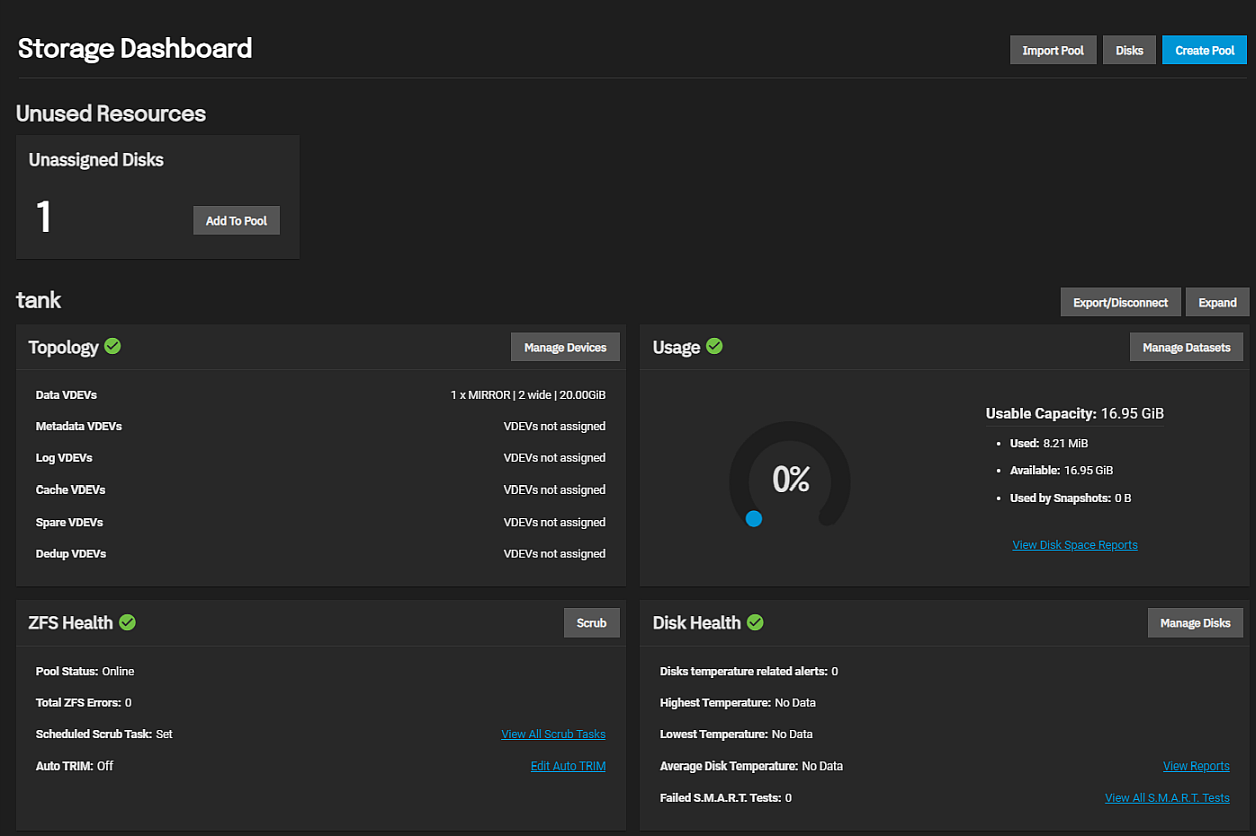
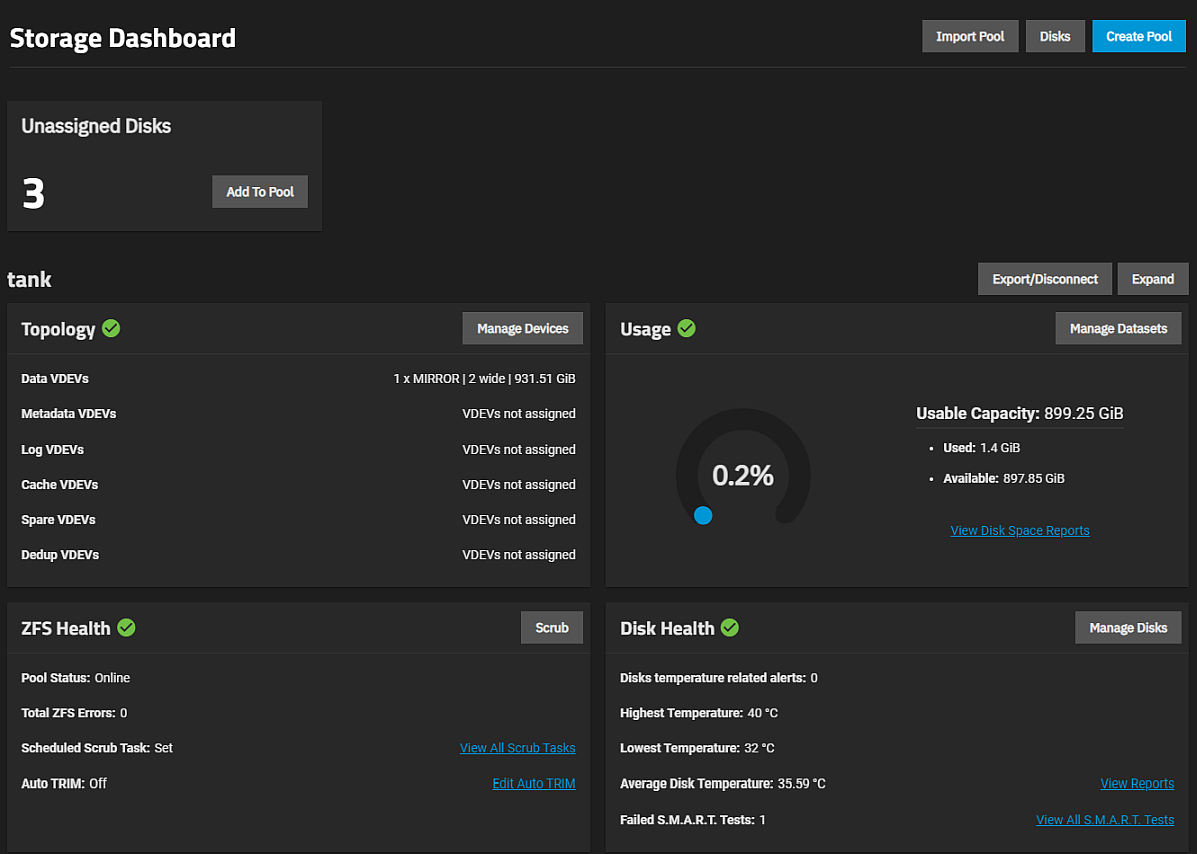
Docs-3404 Update Storage Dashboard Screen Article
Update the StorageDashboardScreen.md article  with updated screenshots and change references to Unused Resources to just Unassigned Disks.

diff --git a/content/SCALE/SCALEUIReference/Storage/StorageDashboardScreen.md b/content/SCALE/SCALEUIReference/Storage/StorageDashboardScreen.md
@@ -21,7 +21,7 @@ The **Storage Dashboard** displays the **No Pools** screen with a **Create Pool*
 
 Both the **Create Pool** button on the top right and at the center of the screen open the **Create Pool > [Pool Manager]({{< relref "PoolManagerScreens.md" >}})** configuration screen. 
 
-After adding a pool, the screen displays five widgets. The **[Unused Resources](#unused-resources)** widget remains at the top of the dashboard and the other four are a set that displays for each pool created on the system. 
+After adding a pool, the screen displays five widgets. The **[Unassigned Disks](#unassigned-disks-widget)** widget remains at the top of the dashboard and the other four are a set that displays for each pool created on the system. 
 
 ![StorageDashboardWithPool](/images/SCALE/22.12/StorageDashboardWithPool.png "SCALE Storage Dashboard with Pool") 
 
@@ -43,22 +43,19 @@ This same information displays on both the **Storage** widget and a pool widget 
 ## Storage Dashboard Widgets
 The **Storage Dashboard** widgets organize storage and related functions for each pool. 
 
-The **Unassigned Resources** widget remains at the top of the dashboard and provides the number of available disks on the system to use in pools. 
+The **Unassigned Diks** widget remains at the top of the dashboard and provides the number of available disks on the system to use in pools. 
 Each pool has a set of four widgets: **[Topology](#topology-widget)** for managing pool virtual devices or VDEVs, **[Usage](#usage-widget)** for managing datasets and zvols, **[ZFS Health](#zfs-health-widget)** for managing pool health and pool functions like scrub and auto TRIM, and **[Disk Health](#disk-health-widget)** for managing disks and disk health. 
-Each set of pool widgets provides access to screens for each storage type with the information for the pool pre-selected. For example, **Manage Devices** on the **[Topology](#topology-widget)** widget opens the **Devices** screen with the VDEVs configured for that pool and not all pools on the system.
+Each set of pool widgets provide access to screens for each storage type with the information for the pool pre-selected. For example, **Manage Devices** on the **[Topology](#topology-widget)** widget opens the **Devices** screen with the VDEVs configured for that pool and not all pools on the system.
 
-### Unused Resources Widget
-The **Unused Resources Unassigned Disks** widget displays the number of disks available on your system to use in pools. The disk count includes disks assigned in exported pools. If you attempt to use a disk assigned in an exported pool, a warning message displays that prompts you to select a different disk.
+### Unassigned Disks Widget
+The **Unassigned Disks** widget displays the number of disks available on your system to use in pools. The disk count includes disks assigned in exported pool. If you attempt to use a disk assigned in an exported pool a warning message displays that prompts you to select a different disk.
 
 {{< expand "Click Here for More Information" "v" >}}
 To see information on each disk on the system, click **Manage Disks** on the **[Disk health](#disk-health-widget)** widget.
 
-![StorageDashboardUnusedResourcesWidget](/images/SCALE/22.12/StorageDashboardUnusedResourcesWidget.png "Storage Dashboard Unused Resources Widget") 
+![StorageDashboardUnassignedDisksWidget](/images/SCALE/22.12/StorageDashboardUnassignedDisksWidget.png "Storage Dashboard Unassigned Disks Widget") 
 
 **Add To Pool** opens the **[Add to Pool](#add-to-pool-window)** window. 
-
-**New Pool** opens the **Create Pool > [Pool Manager]({{< relref "PoolManagerScreens.md" >}})** screen. 
-**Existing Pool** opens the **Add VDevs to Pool > [Pool Manager]({{< relref "PoolManagerScreens.md" >}})** screen.
 {{< /expand >}}
 
 #### Add To Pool Window
@@ -70,8 +67,9 @@ The **Add to Pool** window allows you to select a disk or disks to add to either
 The **Unassigned Disks** area displays the amount of storage and number of disks that provides that storage.
 
 The **Add Disks To** area includes two radio buttons:
-* **New Pool** adds a new pool.
-* **Existing Pool** adds the **Existing Pool** field where you select the existing pool from the dropdown list.
+
+**New Pool** opens the **Create Pool > [Pool Manager]({{< relref "PoolManagerScreens.md" >}})** screen. 
+**Existing Pool** opens the **Add VDevs to Pool > [Pool Manager]({{< relref "PoolManagerScreens.md" >}})** screen.
    
    ![AddToPool-ExistingWindow](/images/SCALE/22.12/AddToPool-ExistingWindow.png "Add To Existing Pool") 
 
@@ -82,7 +80,7 @@ The **Add Disks To** area includes two radio buttons:
 The **Topology** widget provides information on VDEVS configured on the system and the status on the pool. 
 {{< expand "Click Here for More Information" "v" >}}
 The widget lists each VDEV type (data, metadata, log, cache, spare, and dedup). 
-A **Data VDEV** includes the data type (stripe, mirror, RAID, or mixed configuration), the number of disks (**wide**), and the storage capacity of that VDEV.
+A **Data VDEV** include the data type (stripe, mirror, RAID, or mixed configuration), the number of disks (**wide**), and storage capacity of that VDEV.
 
 ![StorageDashboardTopologyWidget](/images/SCALE/22.12/StorageDashboardTopologyWidget.png "Storage Dashboard Topology Widget") 
 
@@ -92,7 +90,7 @@ A **Data VDEV** includes the data type (stripe, mirror, RAID, or mixed configura
 The **Usage** widget provides information on the space configured datasets use and the status of pool usage. 
 {{< expand "Click Here for More Information" "v" >}}
 The widget includes a donut chart that illustrates the percentage of space used on the pool. 
-This color-coded graph displays space usage in the 0-80% range as blue, and anything above 80% as red.
+This color-coded graph displays space usage in the 0-80% range in blue indicates and anything above 80% in red.
 A warning displays below this donut graph when usage is above 80%. 
 **Usable Capacity** details the selected pool space statistics by **Used**, **Available**, and **Used by Snapshots**. 
 
@@ -168,7 +166,7 @@ The **Import Pool** button opens the **Import Pool** screen.
 
 ![ImportPoolScreen](/images/SCALE/22.12/ImportPoolScreen.png "Import Pool Screen") 
 
-Select a pool from the **Pool** dropdown list that TrueNAS detects as present on the system but not yet connected in TrueNAS. 
+Select a pool from the **Pool** dropdown list TrueNAS detects as present on the system but that is not yet connected in TrueNAS. 
 
 **Import** starts the process to connect the pool in TrueNAS and bring it into SCALE. Import also reconnects pools after users reinstall or upgrade their TrueNAS system.
 
@@ -183,9 +181,9 @@ Exporting/disconnecting can be a destructive process! Back up all data before pe
 
 ![ExportDisconnectPoolWindow](/images/SCALE/22.12/ExportDisconnectPoolWindow.png "Export/Disconnect Pool Window")
 
-If a share uses the pool, this window displays the share type (for example, SMB share, etc.) affected by the export/disconnect operation.
+If a share uses the pool this window displays the share type (for example, SMB share, etc.) affected by the export/disconnect operation.
 
-Disks in an exported pool become available to use in a new pool but remain marked as used by the exported pool. If you select a disk used by an exported pool to use in a new pool, the system displays a warning message about the disk.
+Disks in an exported pool become available to use in a new pool but remain marked as used by an exported pool. If you select a disk used by an exported pool to use in a new pool the system displays a warning message about the disk.
 
 | Setting | Description |
 |---------|-------------|

diff --git a/content/SCALE/SCALETutorials/Storage/Pools/CreatePoolScale.md b/content/SCALE/SCALETutorials/Storage/Pools/CreatePoolScale.md
@@ -25,7 +25,7 @@ ZFS and VDEVs combined create high-performance pools that maximize data lifetime
 
 ## Review Storage Needs
 
-We strongly recommend you review your available system resources and plan your storage use case before creating a storage pool.
+It is strongly recommended that you review your available system resources and plan your storage use case before creating a storage pool.
 * Allocating more drives to a pool increases redundancy when storing critical information.
 * Maximizing total available storage at the expense of redundancy or performance entails allocating large-volume disks and configuring a pool for minimal redundancy.
 * Maximizing pool performance entails installing and allocating high-speed SSD drives to a pool.
@@ -44,7 +44,7 @@ You access the **Pool Manager** from the **Storage Dashboard**.
 Click **Storage** on the main navigation panel on the left of the screen.  
 Click **Create Pool** to open the **Pool Manager** screen for new pools.
 
-![CreatePoolPoolManagerScreen](/images/SCALE/22.12/CreatePoolPoolManagerScreen.png "Create Pool Pool Manager")
+![CreatePoolPoolManagerScreen](/images/SCALE/22.12/CreatePoolPoolManagerScreen.png "Crete Pool Pool Manager")
 
 If you already have a pool created on your system you can use either the **Create Pool** button at the top right of the screen or click the **Add to a Pool** button on the **Unused Resources** widget to create a new pool.
 
@@ -80,12 +80,12 @@ The **Available Disks** table lists all available disks detected on the system i
 {{< /hint >}}
 
 {{< hint info >}}
-Disks with non-unique serial numbers do not populate the **Available Disks** section until you select **Show disk with non-unique serial numbers**.
+Disks with non-unique serial number do not populate the **Available Disks** section until you select **Show disk with non-unique serial numbers**.
 {{< /hint >}}
 
 {{< expand "Can I create one pool with different data VDEV layouts?" "v" >}}
 TrueNAS SCALE does not support adding multiple data VDEV layouts (or types) in one pool, for example a mirror data VDEV and a RAID data VDEV in the same pool.
-Create a new pool when you need a different data VDEV layout.
+Create a new pool when a different data VDEV layout is required.
 For example, *pool1* has a data VDEV in a *mirror* layout, so create *pool2* for any *raid-z* VDEVs.
 {{< /expand >}}
 
@@ -102,7 +102,7 @@ You must then confirm you understand the warning before you can continue.
 You can add disks to the data VDEV manually or click the **Suggest Layout** button and allow TrueNAS to review all available disks and populate the primary **Data VDevs** with identically sized drives in a configuration balanced between storage capacity and data redundancy. 
 If you don't want to use the suggested layout, click **Reset Layout** to clear the data VDEV layout and move the disks back to the **Available Disks** list. 
 
-To manually add disks, select the checkboxes to the left of each disk you want to add and then click the <i class="fa fa-arrow-right" aria-hidden="true" title="Right Arrow"></i>&nbsp; to the left of the data VDEV to move the disks over. See [About Data VDEV Layouts](#about-data-vdev-layouts) or the [Pool Manager Screen]({{< relref "PoolManagerScreens.md" >}}) for more information on data VDEV layouts.
+To manually add disks, select the checkboxes to the left of each disks you want to add and then click the <i class="fa fa-arrow-right" aria-hidden="true" title="Right Arrow"></i>&nbsp; to the left of the data VDEV to move the disks over. See [About Data VDEV Layouts](#about-data-vdev-layouts) or the [Pool Manager Screen]({{< relref "PoolManagerScreens.md" >}}) or more information on data VDEV layouts.
 
 Next, if you want to add another type of VDEV, click **Add Vdev** and select the VDEV type from the options.
 Each VDEV type stores data or enables unique features for the pool.
@@ -141,8 +141,8 @@ A single disk failure results in losing all data in the vdev.
 {{< /hint >}}
 {{< /expand >}}
 {{< expand "Mirror" >}}
-A **Mirror** VDEV stores on both disks, and data is identical on each disk.
-A mirror VDEV requires at least two disks. It has the most redundancy and the least capacity.
+A **Mirror** VDEV stores on both disks, data is identical in each disk.
+A mirror VDEV requires at least two disks, has the most redundancy, and the least capacity.
 {{< /expand >}}
 {{< expand "RAIDZ1" >}}
 A **RAIDZ1** uses one disk for parity while all other disks store data.

diff --git a/content/SCALE/SCALETutorials/Storage/Disks/ReplacingDisks.md b/content/SCALE/SCALETutorials/Storage/Disks/ReplacingDisks.md
@@ -25,7 +25,7 @@ TrueNAS wipes the data on the replacement disk as part of the process.
 
 ## Replacing a Failed Disk
 
-If you configure your main SCALE **Dashboard** to include individual **Pool** widgets or the **Storage** widget, they show the status of your system pools as on or offline, degraded, or in an error condition. 
+If you configure your main SCALE **Dashboard** to include individual **Pool** or the **Storage** widgets they show the status of your system pools as on or offline, degraded or in an error condition. 
 
 ![MainDashboardPoolAndStorageWidgetsDegraded](/images/SCALE/22.12/MainDashboardPoolAndStorageWidgetsDegraded.png "Main Dashboard Pool and Storage Widgets Degraded")
 
@@ -39,7 +39,7 @@ To replace a failed disk:
 
 1. Locate the failed drive.
 
-   a. Go to the **Storage Dashboard** and click **Manage Devices** on the **Topology** widget for the degraded pool to open the **Devices** screen for that pool. 
+   a. Go to the **Storage Dashboard** click **Manage Devices** on the **Topology** widget for the degraded pool to open the **Devices** screen for that pool. 
    b. Click anywhere on the VDEV to expand it and look for the drive with the Offline status.
 
 2. Take the disk offline. 
@@ -48,7 +48,7 @@ To replace a failed disk:
 
    Click **Offline** on the **ZFS Info** widget to take the disk offline. The button toggles to **Online**.
 
-2. Pull the disk from your system and replace it with a disk of at least the same or greater capacity as the failed disk. 
+2. Pull the disk from your system and replace with a disk of at least the same or greater capacity as the failed disk. V:
    
    ![ReplaceDiskAndOnline](/images/SCALE/22.12/ReplaceDiskAndOnline.png "Replace and Online a Disk")
    
@@ -80,14 +80,14 @@ Attempting to replace a heavily degraded disk without off-lining it significantl
 {{< /expand >}}
 
 {{< expand "The offline failed?" "v" >}}
-If the off-line operation fails with a **Disk offline failed - no valid replicas** message, go to **Storage Dashboard**, and click **Scrub** on the **ZFS Health** widget for the pool with the degraded disk. The **Scrub Pool** confirmation dialog opens. Select **Confirm** and then click **Start Scrub**.
+If the off-line operation fails with a **Disk offline failed - no valid replicas** message, go to **Storage Dashboard**, click **Scrub** on the **ZFS Health** widget for the pool with the degraded disk. The **Scrub Pool** confirmation dialog opens. Select **Confirm** and then click **Start Scrub**.
 
 ![StorageZFSHealthScrub](/images/SCALE/22.12/StorageZFSHealthScrub.png "Storage ZFS Health Scrub Pool")
 
-When the scrub operation finishes, return to the **Devices** screen, click on the VDEV and then the disk, and try to offline it again.
+When the scrub operation finishes, return to the **Devices** screen, click on the VDEV and then the disk and try to off-line it again.
 {{< /expand >}}
 
-1. Click on **Manage Devices** to open the **Devices** screen, then click anywhere on the VDEV to expand it and show the drives in the VDEV. 
+1. Click on **Manage Devices** to open the **Devices** screen, click anywhere on the VDEV to expand VDEV and show the drives in the VDEV. 
 
 2. Click **Offline** on the **ZFS Info** widget. A confirmation dialog displays. Click **Confirm** and then **Offline**. 
    The system begins the process to take the disk offline. When complete, the disk displays the status of the failed disk as **Offline**. 
@@ -96,7 +96,7 @@ When the scrub operation finishes, return to the **Devices** screen, click on th
    ![ReplaceDiskAndOnline](/images/SCALE/22.12/ReplaceDiskAndOnline.png "Off-Lining A Disk") 
 
 3. You can physically remove the disk from the system when the disk status is **Offline**. 
-   If you have not already physically installed the replacement disk in the system, do it now.
+   If the replacement disk is not already physically installed in the system, do it now.
 
 Use **[Replace](#replacing-a-failed-disk)** to bring the new disk online in the same VDEV.
    

diff --git a/content/SCALE/SCALETutorials/Storage/Pools/createPoolScale.md b/content/SCALE/SCALETutorials/Storage/Pools/createPoolScale.md
@@ -25,7 +25,7 @@ ZFS and VDEVs combined create high-performance pools that maximize data lifetime
 
 ## Review Storage Needs
 
-We strongly recommend that you review your available system resources and plan your storage use case before creating a storage pool.
+It is strongly recommended that you review your available system resources and plan your storage use case before creating a storage pool.
 * Allocating more drives to a pool increases redundancy when storing critical information.
 * Maximizing total available storage at the expense of redundancy or performance entails allocating large-volume disks and configuring a pool for minimal redundancy.
 * Maximizing pool performance entails installing and allocating high-speed SSD drives to a pool.
@@ -46,7 +46,7 @@ Click **Create Pool** to open the **Pool Manager** screen for new pools.
 
 ![CreatePoolPoolManagerScreen](/images/SCALE/22.12/CreatePoolPoolManagerScreen.png "Crete Pool Pool Manager")
 
-If you have already created a pool on your system you can use either the **Create Pool** button at the top right of the screen or click the **Add to a Pool** button on the **Unused Resources** widget to create a new pool.
+If you already have a pool created on your system you can use either the **Create Pool** button at the top right of the screen or click the **Add to a Pool** button on the **Unused Resources** widget to create a new pool.
 
 ![AddToPoolWindow](/images/SCALE/22.12/AddToPoolWindow.png "Add To Pool") 
 
@@ -108,7 +108,7 @@ Next, if you want to add another type of VDEV, click **Add Vdev** and select the
 Each VDEV type stores data or enables unique features for the pool.
 For more details on VDEV types and data VDEV layouts see the [Pool Manager Screen]({{< relref "PoolManagerScreens.md" >}}) article.
 
-If you have enough disks of the same size available, you can [duplicate](#duplicating-a-data-vdev) the data VDEV.
+If you have enough disks of the same size available you can [duplicate](#duplicating-a-data-vdev) the data VDEV.
 
 Click **Create** to add the pool.
 
@@ -141,8 +141,8 @@ A single disk failure results in losing all data in the vdev.
 {{< /hint >}}
 {{< /expand >}}
 {{< expand "Mirror" >}}
-A **Mirror** VDEV stores on both disks, and data is identical on each disk.
-A mirror VDEV requires at least two disks. It has the most redundancy and the least capacity.
+A **Mirror** VDEV stores on both disks, data is identical in each disk.
+A mirror VDEV requires at least two disks, has the most redundancy, and the least capacity.
 {{< /expand >}}
 {{< expand "RAIDZ1" >}}
 A **RAIDZ1** uses one disk for parity while all other disks store data.

diff --git a/content/SCALE/SCALEUIReference/Storage/Pools/DevicesScreensSCALE.md b/content/SCALE/SCALEUIReference/Storage/Pools/DevicesScreensSCALE.md
@@ -27,8 +27,8 @@ Click anywhere on a drive to see the [drive widgets](#disk-widgets).
 
 ## ZFS Info Widget (VDEV)
 
-TrueNAS has two versions of the **ZFS Info** widget, one for the VDEV and the other for each drive in the VDEV. 
-The **ZFS Info** widget for the VDEV displays a count of read, write, and checksum errors for that VDEV, and the **Extend** and **Remove** options. 
+There are two versions of the **ZFS Info** widget, one for the VDEV the other for each drive in the VDEV. 
+The **ZFS Info** widget for the VDEV displays a count of read, write and checksum errors for that VDEV, and the **Extend** and **Remove** options. 
 
 ![DevicesVDEVZFSInfoWidget](/images/SCALE/22.12/DevicesVDEVZFSInfoWidget.png "Devices Details for Mirror ZFS Info Widget")  
 
@@ -37,11 +37,11 @@ The **ZFS Info** widget for the VDEV displays a count of read, write, and checks
 ![DevicesExtendVDEVDialog](/images/SCALE/22.12/DevicesExtendVDEVDialog.png "Devices Extend VDEV Dialog")  
 
 **Remove** opens the **Remove device** dialog where you confirm you want to remove the selected VDEV. 
-To remove a drive from the VDEV, select the drive, then select **Detach** on the **[ZFS Info](#zfs-info-widget-drives)** widget to remove the drive from the VDEV (pool).
+To remove a drive from the VDEV, select the drive then select **Detach** on the **[ZFS Info](#zfs-info-widget-drives)** widget to remove the drive from the VDEV (pool).
 
 ## Disk Widgets
 Each disk in a VDEV has a set of four widgets that provide information on that disk. 
-After selecting a disk, the widgets display on the right side of the screen in the **Details for *diskname*** area of the screen.
+After selecting a disk the widgets display on the right side of the screen in the **Details for *diskname*** area of the screen.
 
 ![DevicesDiskWidgets](/images/SCALE/22.12/DevicesDiskWidgets.png "Devices Disk Widgets") 
 
@@ -103,7 +103,7 @@ The **Disk Info** widget displays information on the **Disk Size**, **Transfer M
 Select the new disk for the pool from the **Member Disk** dropdown list. 
 The system prevents losing existing data by stopping the add operation for the new disk if the disk is already in use or has partitions present.
 
-**Force** overrides the safety check and adds the disk to the pool. Selecting this option erases any data stored on the disk!
+**Force** overrides safety check and adds the disk to the pool. Selecting this option erases any data stored on the disk!
 
 **Replace Disk** adds the new disk to the pool.
 {{< /expand >}}

diff --git a/content/_includes/FusionPools.md b/content/_includes/FusionPools.md
@@ -16,7 +16,7 @@ Using a special vdev drastically speeds up random I/O and cuts the average spinn
 
 Go to **Storage > Pools**, click **ADD**, and select **Create new pool**.
 
-A pool must always have one normal (non-dedup/special) VDEV before you can assign other devices to the special class.
+A pool must always have one normal (non-dedup/special) VDEV before other devices can be assigned to the special class.
 Configure the **Data VDevs**, then click **ADD VDEV** and select **Metadata**.
 
 ![CreateMetadataVdev](/images/CORE/13.0/CreateMetadataVdev.png "Create Metadata VDev Screen")
@@ -28,17 +28,17 @@ The metadata special VDEV is critical for pool operation and data integrity, so 
 {{< /hint >}}
 
 {{< expand "UPS Recommendation" "v" >}}
-When using SSDs with an internal cache, add an uninterruptible power supply (UPS) to the system to help minimize the risk of data loss from losing power.
+When using SSDs with an internal cache, add uninterruptible power supply (UPS) to the system to help minimize the risk from power loss.
 {{< /expand >}}
 
-We recommend using special VDEVs identical to the data VDEVs (so they can use the same hot spares), but for performance reasons, you can make a different type of VDEV (like a mirror of SSDs).
-In that case, you must provide hot spare(s) for that drive type as well. Otherwise, if the special VDEV fails and there is no redundancy, the pool becomes corrupted and prevents access to stored data.
+Using special VDEVs identical to the data VDEVs (so they can use the same hot spares) is recommended, but for performance reasons you can make a different type of VDEV (like a mirror of SSDs).
+In that case you must provide hot spare(s) for that drive type as well. Otherwise, if the special VDEV fails and there is no redundancy, the pool becomes corrupted and prevents access to stored data.
 
 {{< hint warning >}}
-You cannot remove drives added to a metadata VDEV from the pool.
+Drives added to a metadata VDEV cannot be removed from the pool.
 {{< /hint >}}
 
-When you create more than one metadata VDEV, TrueNAS load-balances the allocations between all of them.
+When more than one metadata VDEV is created, then allocations are load-balanced between all these devices.
 If the special class becomes full, then allocations spill back into the normal class.
 
 After the fusion pool is created, the **Status** shows a **Special** section with the metadata SSDs.

diff --git a/content/_includes/FusionPoolsCommonContent.md b/content/_includes/FusionPoolsCommonContent.md
@@ -7,18 +7,18 @@ Add SSDs to the new **Metadata VDev** and select the same layout as the **Data V
 The metadata special VDEV is critical for pool operation and data integrity, so you must protect it with hot spare(s).
 {{< /hint >}}
 
+{{< expand "UPS Recommendation" "v" >}}
+When using SSDs with an internal cache, add uninterruptible power supply (UPS) to the system to help minimize the risk from power loss.
+{{< /expand >}}
+
+Using special VDEVs identical to the data VDEVs (so they can use the same hot spares) is recommended, but for performance reasons you can make a different type of VDEV (like a mirror of SSDs).
+In that case you must provide hot spare(s) for that drive type as well. Otherwise, if the special VDEV fails and there is no redundancy, the pool becomes corrupted and prevents access to stored data.
+
 {{< hint warning >}}
 Drives added to a metadata VDEV cannot be removed from the pool.
 {{< /hint >}}
 
-When you create more than one metadata VDEV, TrueNAS load-balances the allocations between all of them.
+When more than one metadata VDEV is created, then allocations are load-balanced between all these devices.
 If the special class becomes full, then allocations spill back into the normal class.
-
-{{< expand "UPS Recommendation" "v" >}}
-When using SSDs with an internal cache, add an uninterruptible power supply (UPS) to the system to help minimize the risk of data loss from losing power.
-{{< /expand >}}
-
-We recommend using special VDEVs identical to the data VDEVs (so they can use the same hot spares), but for performance reasons, you can make a different type of VDEV (like a mirror of SSDs).
-In that case, you must provide hot spare(s) for that drive type as well. Otherwise, if the special VDEV fails and there is no redundancy, the pool becomes corrupted and prevents access to stored data.
 
 After the fusion pool is created, the **Status** shows a **Special** section with the metadata SSDs.

diff --git a/content/SCALE/SCALETutorials/Storage/Pools/ManagePoolsScale.md b/content/SCALE/SCALETutorials/Storage/Pools/ManagePoolsScale.md
@@ -24,8 +24,9 @@ Select **Storage** on the main navigation panel and then click the **Edit Auto T
 
 ![PoolOptionsAuotTRIM](/images/SCALE/22.12/PoolOptionsAuotTRIM.png "Pool Edit Auto TRIM Dialog")
 
-Select **Auto TRIM** and click **Save**.. 
+Select **Auto TRIM**. 
 
+And click **Save**.
 
 With **Auto TRIM** selected and active, TrueNAS periodically checks the pool disks for storage blocks it can reclaim. Auto TRIM can impact pool performance, so the default setting is disabled. 
 
@@ -33,7 +34,7 @@ For more details about TRIM in ZFS, see the `autotrim` property description in [
 
 ## Exporting/Disconnecting or Deleting a Pool
 
-The **Export/Disconnect** option allows you to disconnect a pool and transfer drives to a new system where you can import the pool or completely delete the pool and any data stored on it. 
+The **Export/Disconnect** option allows you to disconnect a pool and transfer drives to a new system where you can import the pool or to completely delete the pool and any data stored on it. 
 
 Select **Export/Disconnect** on the **Storage Dashboard**.
 

diff --git a/content/SCALE/SCALETutorials/Storage/Pools/DatasetsSCALE.md b/content/SCALE/SCALETutorials/Storage/Pools/DatasetsSCALE.md
@@ -112,7 +112,7 @@ Before setting this property, you must add a [special class vdev]({{< relref "Fu
 
 ## Managing Datasets
 
-After creating a dataset, users can manage additional options by going to **Storage** and clicking the dataset <i class="fa fa-ellipsis-v" aria-hidden="true" title="Options"></i>&nbsp; icon to display the **Dataset Actions** list. We describe each option in detail in the [Storage Dashboard Screen]({{< relref "StorageDashboardScreen.md" >}}) article.
+After creating a dataset, users can manage additional options by going to **Storage** and clicking the dataset <i class="fa fa-ellipsis-v" aria-hidden="true" title="Options"></i>&nbsp; icon to display the **Dataset Actions** list. Each option is described in detail in the [Storage Dashboard Screen]({{< relref "StorageDashboardScreen.md" >}}) article.
 
 ### Editing a Dataset
 Select **Edit Options** to change the dataset configuration settings. You can change all settings except **Name**, **Case Sensitivity**, or **Share Type**.

diff --git a/content/_includes/FusionPoolsIntro.md b/content/_includes/FusionPoolsIntro.md
@@ -7,7 +7,7 @@ Fusion Pools are also known as ZFS allocation classes, ZFS special vdevs, and me
 A special VDEV can store meta data such as file locations and allocation tables.
 The allocations in the special class are dedicated to specific block types.
 By default, this includes all metadata, the indirect blocks of user data, and any deduplication tables.
-You can also provision the class to accept small file blocks.
+The class can also be provisioned to accept small file blocks.
 This is a great use case for high performance but smaller sized solid-state storage.
-Using a special VDEV drastically speeds up random I/O and cuts the average spinning-disk I/Os needed to find and access a file by up to half.
+Using a special vdev drastically speeds up random I/O and cuts the average spinning-disk I/Os needed to find and access a file by up to half.
 {{< /expand >}}

diff --git a/content/SCALE/SCALEUIReference/Storage/Pools/PoolManagerScreens.md b/content/SCALE/SCALEUIReference/Storage/Pools/PoolManagerScreens.md
@@ -26,7 +26,7 @@ If your system disks do not have unique serial numbers, the **Pool Manager** scr
 
 Select **Show disks with non-unique serial numbers** to display the system disks.
 The **0 selected/ *#* total** below the **Available Disks** displays a count of the number of disks selected to the total number of disks available on your system. 
-This counter keeps track of the total number of available disks in the system when disks span across several screen pages.
+This counter keeps track of the total number of available disk in the system when disks span across several screen pages.
 
 | Settings | Description |
 |----------|-------------|
